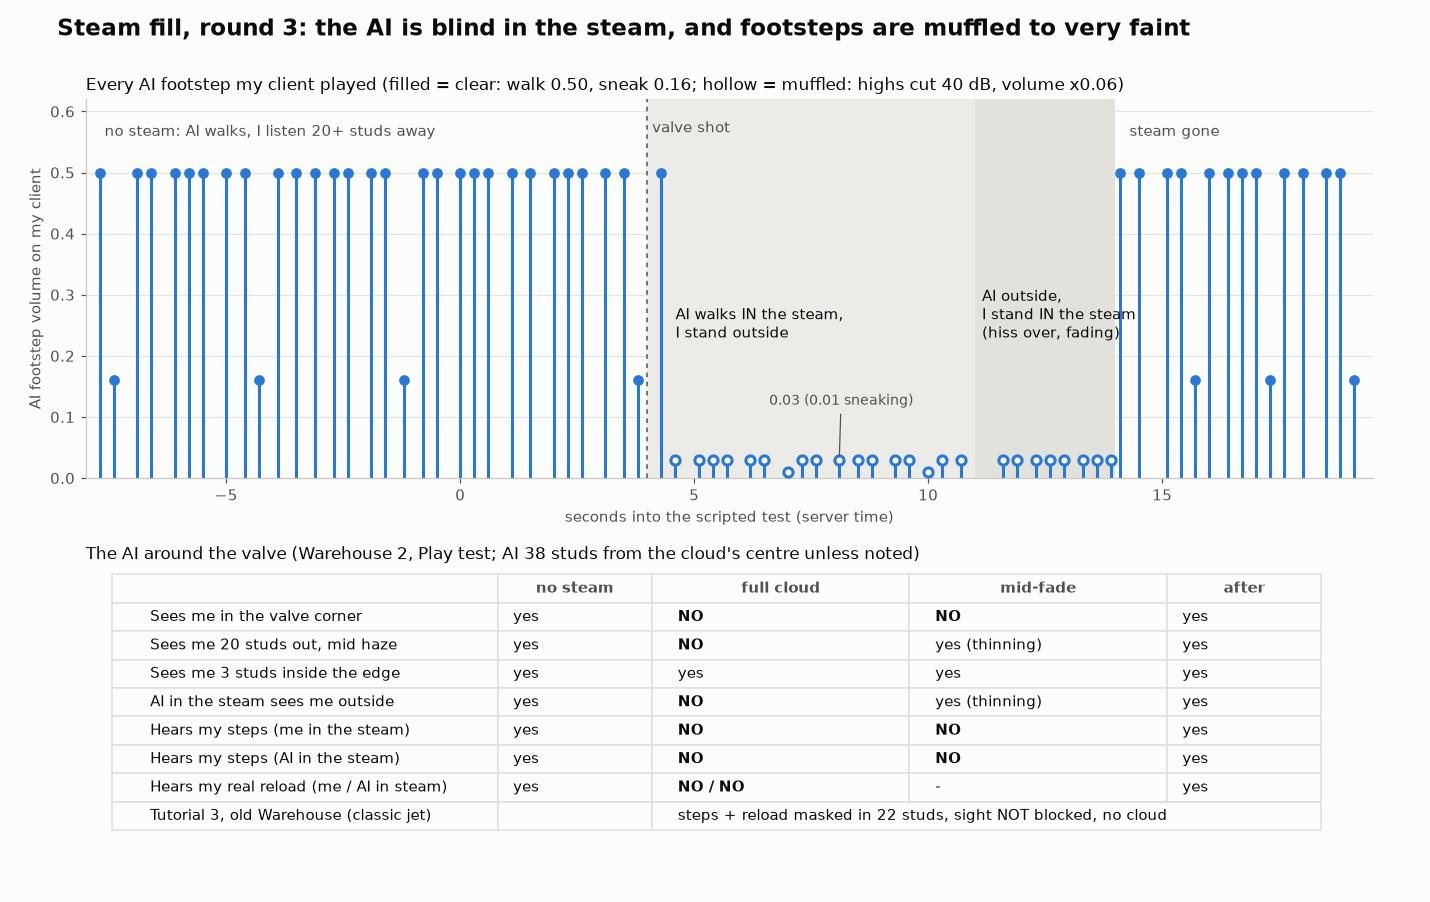
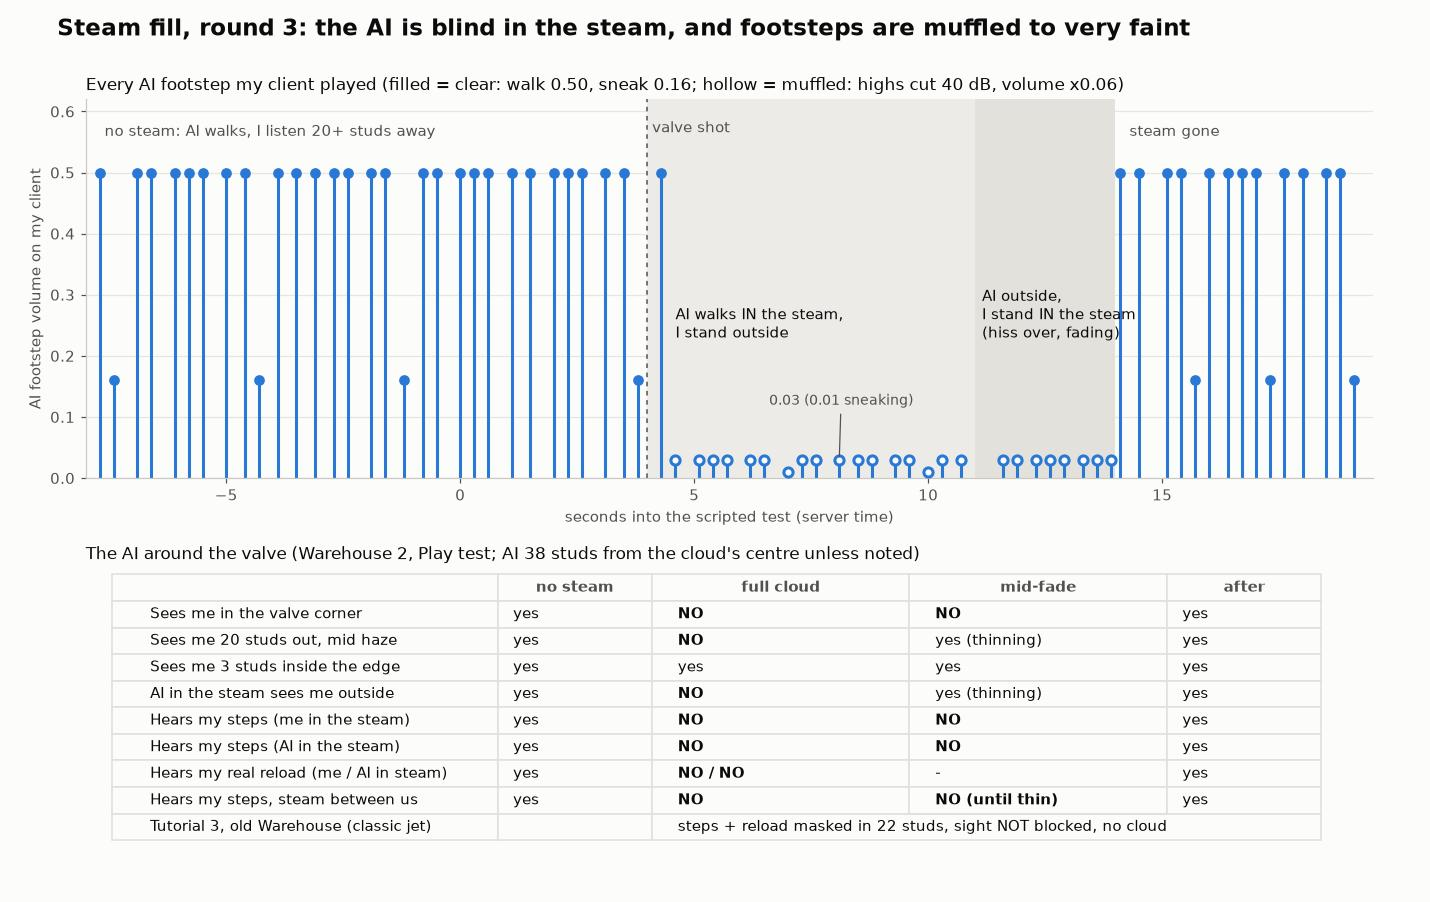
Steam fill round 4: steam between two people muffles too; 25x cheaper AI sight test; grader fixes [STEAMFILL]
Round-3 grader (FIX 8.9, nothing blocking) found:
- The installer wrote code after a comment on CombatManager's reload line ("--[[ABILITY]] --[[STEAMFILL quiet]] end"):
  tag removed (Luau trap rule: nothing after -- on a line).
- SteamMask.SightDepth called Inside per sample (FillOf tree walk, Phase/Fan attribute reads every stud): ~150 raycasts'
  worth (349 us) per sight line inside CanSee. Per-valve lookups are hoisted and the line is clipped to the cloud's
  circle first: 13.5 us through the core, 5.6 us for 60 studs of haze (one raycast 2.8 us). A unit test compares it with a
  brute-force walk using Inside.
- Comments promised footsteps "in or through" the steam but only walker/listener-in-steam was implemented; now one rule,
  SteamMask.FillMuffled (source in steam, listener in steam [ListenerInSteam knob], or ThroughDepth studs of steam between),
  used by FootstepController (via SteamCloud.FootstepScale) and the AI (Muffled -> _perceive and HearNoise quiet).
- The test hook re-implemented the hearing rule; "hears" now drives the AI's real _perceive and HearNoise.
Installer ROUND 4 (round 3's text only ever existed on the test copy; UNDO it first). Unit tests 61/61; Play on Warehouse 2:
AI doesn't hear steps through the steam, my client plays them muffled (0.03), both back after the fade.

Changed region(s): [[0.4615, 0.6519, 0.9231, 0.9313], [0.0923, 0.6519, 0.4308, 0.9313], [0.5231, 0.6519, 0.5846, 0.6829]]

diff --git a/tools/steam_fill_r3_sheet.py b/tools/steam_fill_r3_sheet.py
@@ -60,10 +60,11 @@ rows = [
     ["Hears my steps (me in the steam)", "yes", "NO", "NO", "yes"],
     ["Hears my steps (AI in the steam)", "yes", "NO", "NO", "yes"],
     ["Hears my real reload (me / AI in steam)", "yes", "NO / NO", "-", "yes"],
+    ["Hears my steps, steam between us", "yes", "NO", "NO (until thin)", "yes"],
     ["Tutorial 3, old Warehouse (classic jet)", "-", "steps + reload masked in 22 studs, sight NOT blocked, no cloud, no muffle", "", ""],
 ]
 t = tx.table(cellText=rows, colLabels=cols, loc="upper left", cellLoc="left", colWidths=[0.3, 0.12, 0.2, 0.2, 0.12])
-t.auto_set_font_size(False); t.set_fontsize(10); t.scale(1, 1.55)
+t.auto_set_font_size(False); t.set_fontsize(10); t.scale(1, 1.45)
 for (r, c), cell in t.get_celld().items():
     cell.set_edgecolor("#e0dfda"); cell.set_facecolor(SURF)
     cell.get_text().set_color(INK if r else INK2)

diff --git a/notes/steam_fill.md b/notes/steam_fill.md
@@ -13,12 +13,13 @@ Fill maps only (Warehouse 2); the classic jet (the Warehouse, Tutorial 3) is unc
   `Sight.CoreRadius` of the cloud's centre counts `CoreWeight` x, everything x the cloud's strength, so it thins in the fade);
   at `Sight.BlindDepth` studs the AI can't see. Result: you're hidden in the valve corner (after 2 studs of core) and anywhere
   6+ studs into the haze; someone just inside the edge stays visible; an AI standing in the steam can't see out.
-- **Footsteps are muddied and very faint**, when the walker OR the listener is in the steam ("you can't hear people"; the hiss
-  around you drowns the room out). Players: `FootstepController` asks `SteamCloud.FootstepScale(sound, pos, own)`: an
+- **Footsteps are muddied and very faint** when the walker is in the steam, when the listener is in it ("you can't hear
+  people": the hiss around you drowns the room out; knob `Footsteps.ListenerInSteam`), or when `Footsteps.ThroughDepth` (6)
+  studs of steam lie between them (the same weighted depth as the AI's sight; added after the round-3 grader). One rule,
+  `SteamMask.FillMuffled`, for players and the AI (`Muffled` = the classic jet's `IsMasked(source)` or `FillMuffled`). Players: `FootstepController` asks `SteamCloud.FootstepScale(sound, pos, own)`: an
   `EqualizerSoundEffect` (`SteamMuffle`) on that footstep Sound cuts the highs (-40 dB) and mids (-18 dB), and the volume is
-  x`Footsteps.Volume` (0.06; your own steps x`OwnVolume` 0.5, muffled). AI: footsteps are lost when the walker or the AI is in
-  the steam (`SteamMask.Muffled(source, listener)`), and a reload (`HearNoise(..., quiet = true)`, set by CombatManager's reload
-  line) isn't heard by an AI standing in the steam. Gunshots, breaks and blasts never ask (unchanged).
+  x`Footsteps.Volume` (0.06; your own steps x`OwnVolume` 0.5, muffled). AI: footsteps and reloads (`HearNoise(..., quiet = true)`, set by
+  CombatManager's reload line) follow `SteamMask.Muffled(source, listener)`. Gunshots, breaks and blasts never ask (unchanged).
 - Classic jet: other people's steps x0.04 inside its 22-stud mask while it hisses (no muffle, no listener rule, no sight block),
   exactly as before; Tutorial 3 plays as before.
 - The masking still lasts until the fade ends (round 2 rule); sight comes back gradually as the haze thins.
@@ -81,15 +82,18 @@ Fill maps only (Warehouse 2); the classic jet (the Warehouse, Tutorial 3) is unc
 | `ScreenWash` | 0.45 | standing inside greys the picture slightly (0 = off; never shows more than normal) |
 | `Sight.BlindDepth` | 6 | studs of steam an AI sight line may cross before it's blocked (round 3) |
 | `Sight.CoreRadius` / `CoreWeight` / `Step` | 9 / 3 / 1 | the thick core around the cloud's centre counts 3 x; sample spacing |
-| `Footsteps.Volume` / `OwnVolume` | 0.06 / 0.5 | footsteps in or through the steam (others / your own), muffled |
+| `Footsteps.ListenerInSteam` | true | standing in the steam you can't hear people either (false: only steps in / through it) |
+| `Footsteps.ThroughDepth` | 6 | steps (and reloads, for the AI) on the far side of this much steam are muffled too (0 = off) |
+| `Footsteps.Volume` / `OwnVolume` | 0.06 / 0.5 | muffled footsteps: others' / your own (yours end up 0.5 x 0.7 x 0.5 = 0.175) |
 | `Footsteps.HighGain` / `MidGain` / `LowGain` | -40 / -18 / -2 dB | the muffle (EqualizerSoundEffect `SteamMuffle` on the footstep Sound) |
 | `LowQualityAt` | 4 | saved graphics 1..4 = Low (also touch-only devices, `_ForceTouch`, < 40 fps) |
 | `Quality.High / Low` | 170 / 60 puffs | live particle budget; Low = 7 emitters, bigger denser puffs (hides the corner as well) |
 Studio test override: player attribute `SteamFillQuality = "High" | "Low"`.
 
 ## Files
-- `fix/steam_fill.lua` installer, **round 3** (18 text edits: round 2's 12 + BotManager 3, CombatManager 1,
-  FootstepController 2; hash before 159e89d8 -> installed 14173ab7 on the round-3 copy; UNDO back to 159e89d8). Round 2 was only
+- `fix/steam_fill.lua` installer, **round 4** (= round 3 after its grader; 18 text edits: round 2's 12 + BotManager 3,
+  CombatManager 1, FootstepController 2; hash before 159e89d8 -> installed db0c45b8; UNDO back to 159e89d8). Round 3's text
+  (commit 84b6012, hash 14173ab7) existed only on this test copy and was UNDOne with its own installer before round 4. Round 2 was only
   ever on the main PC's test copy; a round-2 stamp is refused (UNDO it with `git show 2d05a52:fix/steam_fill.lua`).
 - (round 2 text, kept for history:) installer (built by `python tools/steam_fill_build.py [--run <studio_id> [UNDO]]` from
   `fix/steam_fill/*.lua`). Match places only (refuses the hub). Idempotent; checks every anchor in every target, plus the
@@ -104,6 +108,25 @@ Studio test override: player attribute `SteamFillQuality = "High" | "Low"`.
   entry). Never run it on a shipped place; the real Warehouse 2 replaces it.
 - Studio-only hook `ServerStorage.SteamFillTestHook` (`valves`, `shoot`, `activate`, `reset`, `radius`, `masked`, `bots`,
   `botAt`, `ammo`), created only when `RunService:IsStudio()`.
+
+## Round 3 grader (roblox-systems-grader, xhigh): FIX 8.9, nothing blocking. Fixed in round 4:
+1. code after a comment on the CombatManager line (`--[[ABILITY]] --[[STEAMFILL quiet]] end`): the tag is gone;
+2. the steam sight test cost ~150 raycasts (349 us through the core): per-valve lookups hoisted, the line clipped to the cloud's
+   circle before sampling -> **13.5 us through the core, 5.6 us for 60 studs of haze, 5.4 us missing** (one raycast 2.8 us);
+   a unit test checks it against a brute-force walk with `Inside` on 4 lines;
+3. comments said "as blind as players" and "in or through": reworded; "through" is now real (`ThroughDepth`);
+4. the test hook re-implemented the hearing rule: `hears` now runs the AI's real `_perceive` and `HearNoise`.
+Open from it: the two-player run (C2). Its note: after 5 s without seeing or hearing you, the AI's old hunt logic heads for
+your true position +-15 studs, so a blind AI still drifts toward someone hiding in the steam (not changed: older behaviour).
+
+## Round 4 results (same copy)
+- UNDO round 3 -> 159e89d8; install round 4 -> db0c45b8; second run all "="; UNDO -> 159e89d8; re-install db0c45b8.
+- Unit tests **61/61**.
+- Play, Warehouse 2: AI and me each just outside the cloud on opposite sides (38 studs apart, the cloud between): the AI's real
+  `_perceive` hears my steps with no steam, **not through the steam**, and again after the fade. My client: the AI's steps
+  through the steam 0.03 muffled from 6.1 s (as the cloud grew in between) to 13.3 s, 0.50 from 13.6 s (the thinning haze
+  drops under ThroughDepth just before the fade ends); no screen wash (I was outside).
+- The CombatManager line installed: `...SoundScale or 1), true) --[[ABILITY]] end`.
 
 ## Round 3 test results (Shadow PC; own copy `out/steam_fill/test.rbxl` copied from Matchmaking_place.rbxl 01:05, no lock;
 ## the REAL Warehouse 2 installed on it with `fix/map_warehouse2.lua`, which carries `SteamFill = true`)
